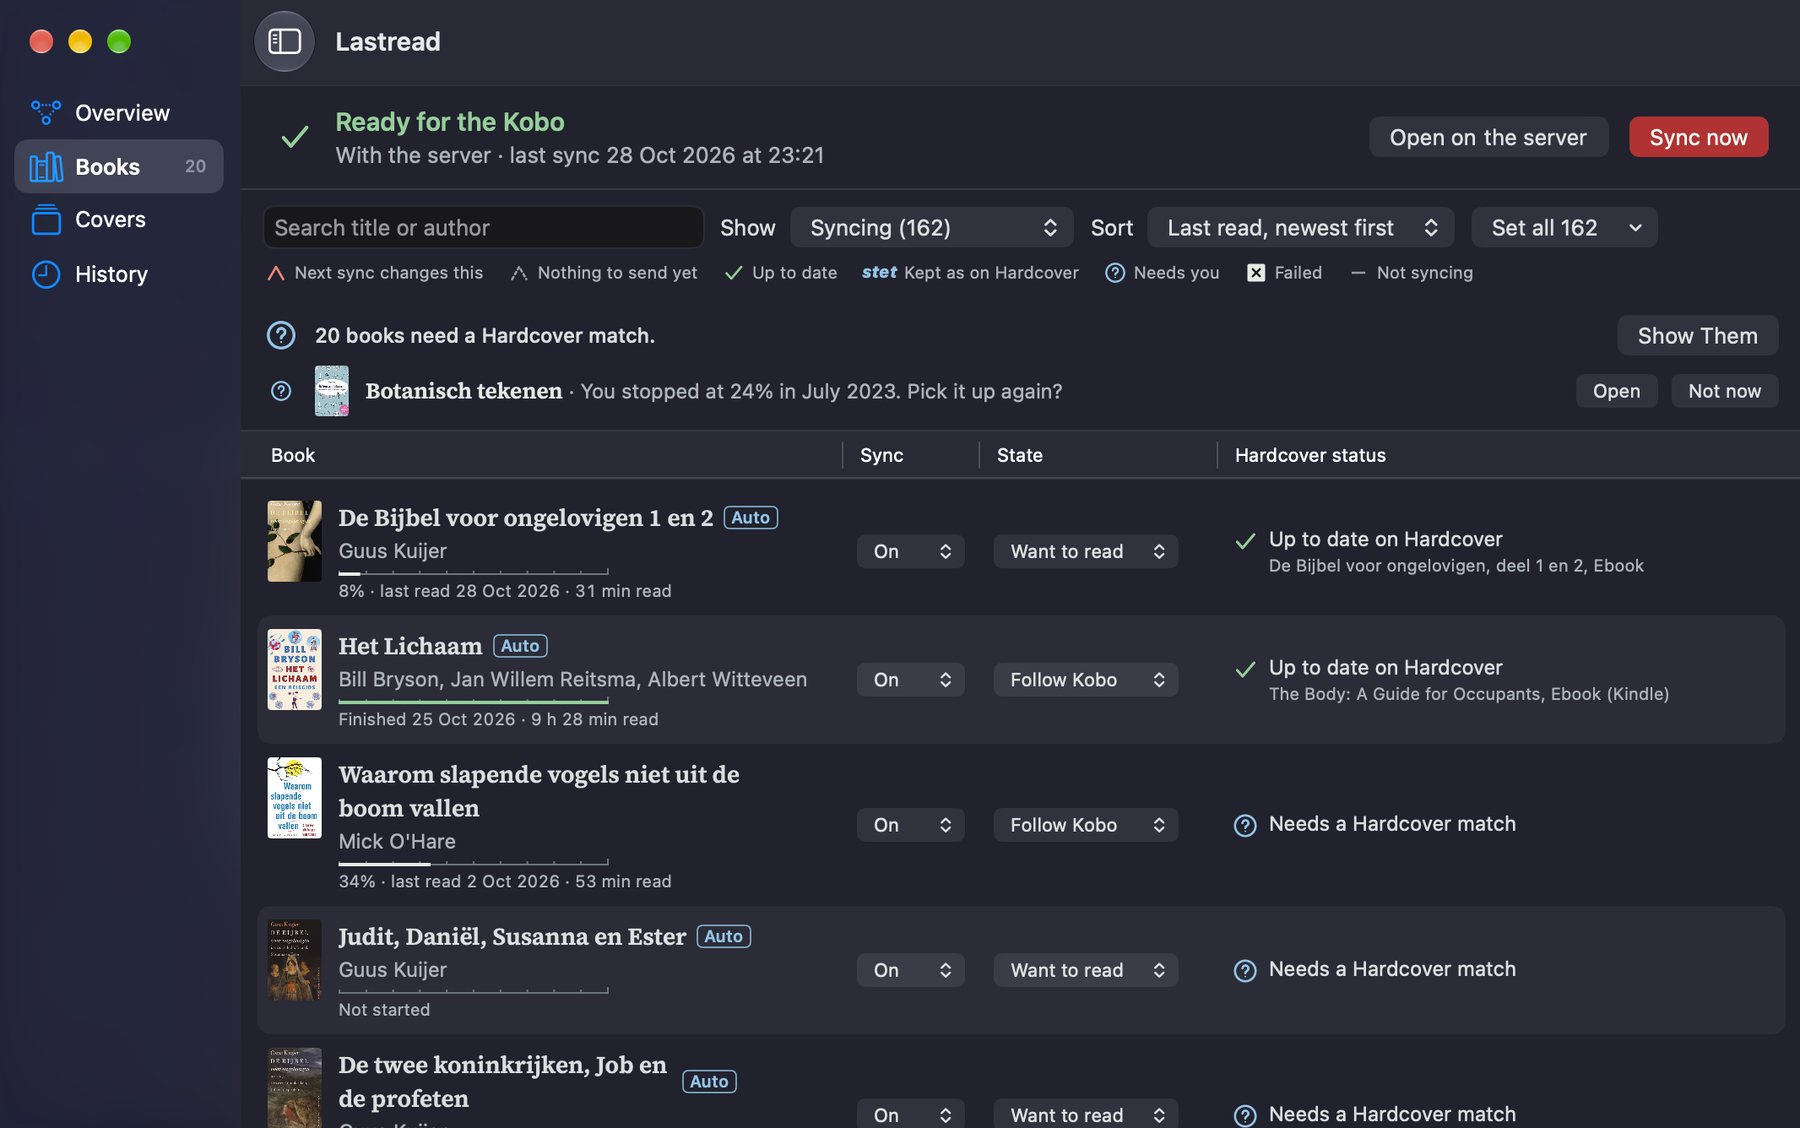
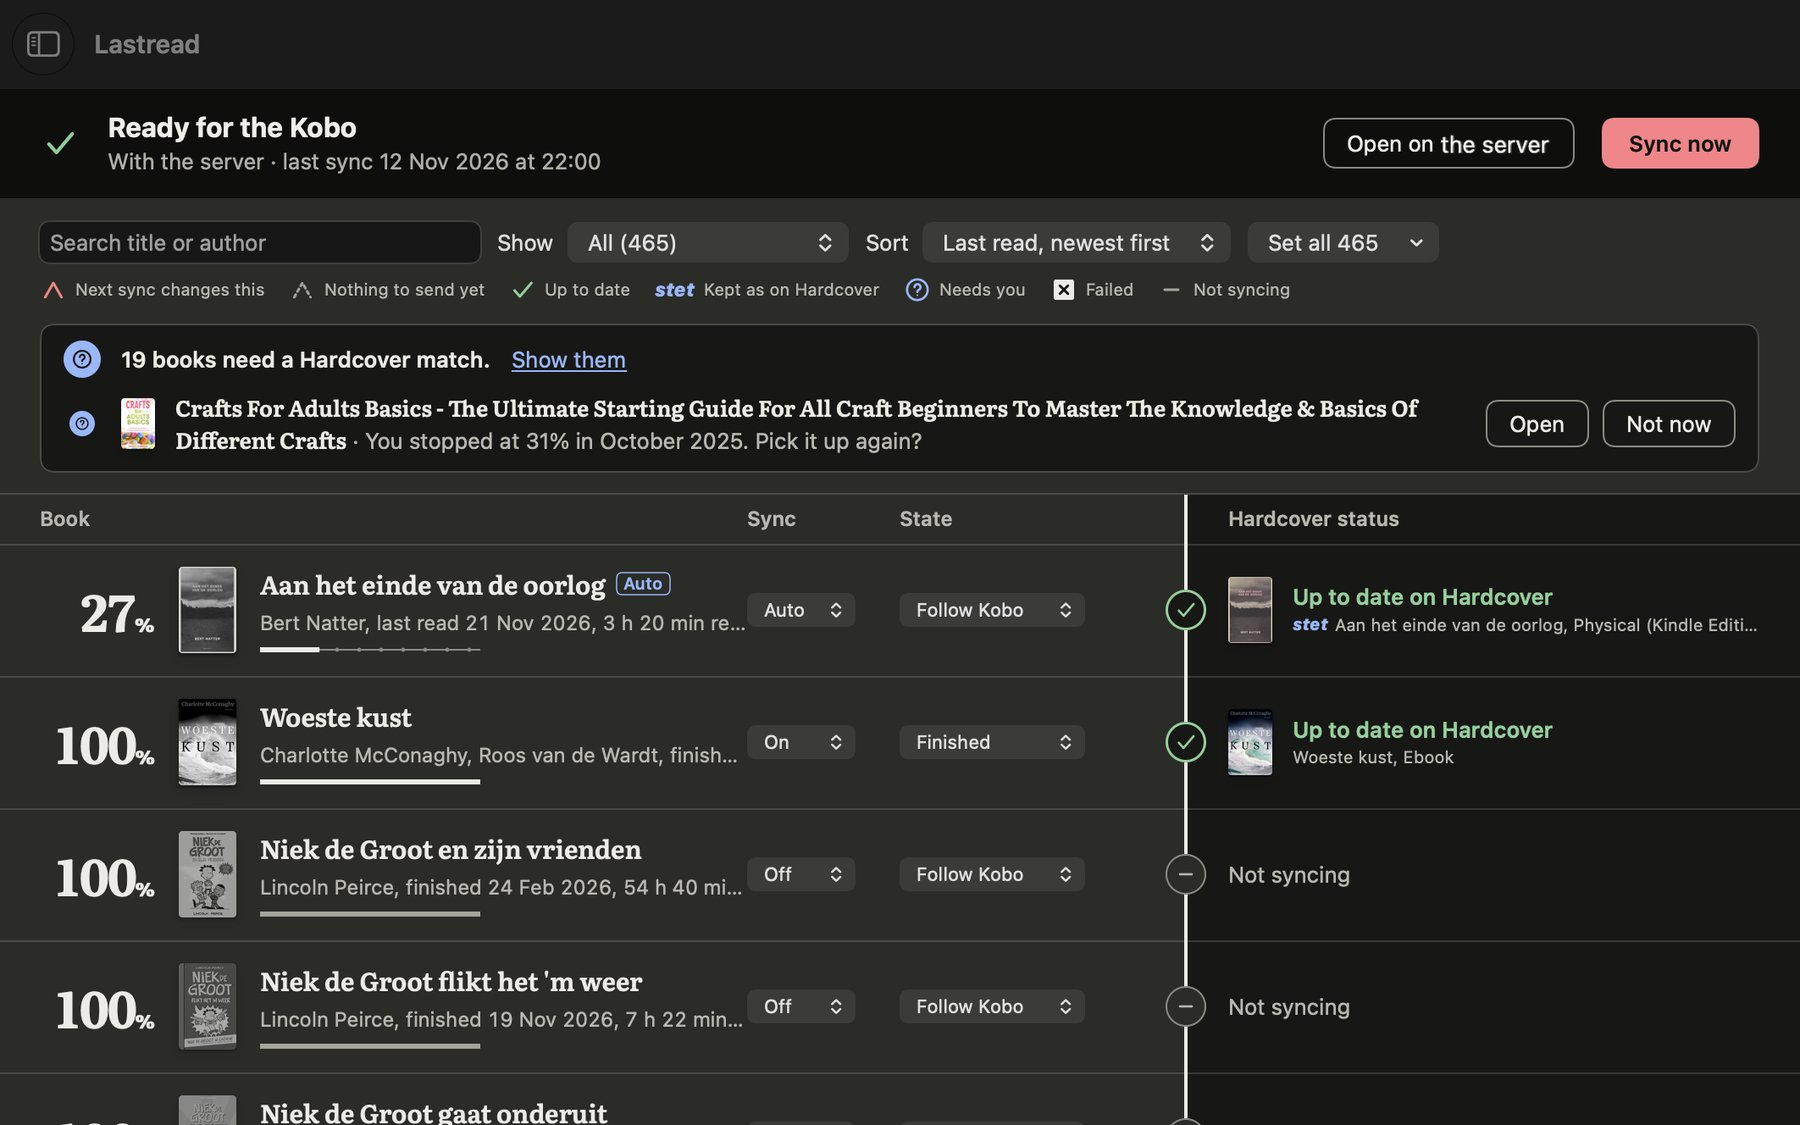
Site: the Mac app's pictures of the two-sides window, the names painted out
Overview, Books and Covers in both themes, from the preview's own pictures
of the 0.33.0 code (KHS_SNAPSHOT, reading a copy of the owner's folder),
cropped beside the sidebar, which the snapshot draws blank. The server's
name, the Hardcover handle and the title's "(preview)" are painted out:
the button says Open on the server, the app's own short label, built from
the glyphs of the line beside it; the Server step has no host and the
Hardcover step reads Live. The alt texts describe the new window, Covers
is 1800 by 1440, and docs/site.md says where the pictures come from.

diff --git a/site/index.html b/site/index.html
@@ -161,16 +161,16 @@ try { var t = localStorage.getItem("theme"); if (t === "light" || t === "dark") 
     </div>
     <div class="cards appshots">
       <figure class="card shot">
-        <picture class="app"><source srcset="img/small/mac-overview-dark.jpg 900w, img/mac-overview-dark.jpg 1800w" sizes="(max-width: 899.98px) 100vw, 50vw" media="(prefers-color-scheme: dark)"><img src="img/mac-overview-light.jpg" srcset="img/small/mac-overview-light.jpg 900w, img/mac-overview-light.jpg 1800w" sizes="(max-width: 899.98px) 100vw, 50vw" alt="The app's Overview: a sidebar with Overview, Books, Covers and History; the line Ready for the Kobo with the server and the last sync; the chain Kobo, This Mac, Server, Hardcover with a tick on each step that is in order; under it the last sync, six books updated" width="1800" height="1128" loading="lazy"></picture>
+        <picture class="app"><source srcset="img/small/mac-overview-dark.jpg 900w, img/mac-overview-dark.jpg 1800w" sizes="(max-width: 899.98px) 100vw, 50vw" media="(prefers-color-scheme: dark)"><img src="img/mac-overview-light.jpg" srcset="img/small/mac-overview-light.jpg 900w, img/mac-overview-light.jpg 1800w" sizes="(max-width: 899.98px) 100vw, 50vw" alt="The app's Overview: a dark band with Ready for the Kobo, the last sync, Open on the server and Sync now; on the grey side the chain Kobo, This Mac and Server, each with its mark, and an arrow into the dark rule between the two sides; on Hardcover's white side the book being read, and Live; under the chain the last sync, four books updated" width="1800" height="1125" loading="lazy"></picture>
         <figcaption>Overview: the chain a sync takes, each step with its checks.</figcaption>
       </figure>
       <figure class="card shot">
-        <picture class="app"><source srcset="img/small/mac-books-dark.jpg 900w, img/mac-books-dark.jpg 1800w" sizes="(max-width: 899.98px) 100vw, 50vw" media="(prefers-color-scheme: dark)"><img src="img/mac-books-light.jpg" srcset="img/small/mac-books-light.jpg 900w, img/mac-books-light.jpg 1800w" sizes="(max-width: 899.98px) 100vw, 50vw" alt="The app's Books pane: the shelf as a list with covers, progress, the Sync and State switches, and the Hardcover status with its marks; a band says twenty books need a match" width="1800" height="1128" loading="lazy"></picture>
+        <picture class="app"><source srcset="img/small/mac-books-dark.jpg 900w, img/mac-books-dark.jpg 1800w" sizes="(max-width: 899.98px) 100vw, 50vw" media="(prefers-color-scheme: dark)"><img src="img/mac-books-light.jpg" srcset="img/small/mac-books-light.jpg 900w, img/mac-books-light.jpg 1800w" sizes="(max-width: 899.98px) 100vw, 50vw" alt="The app's Books pane: under the band, the search, Show and Sort, the marks with their words, and a note that nineteen books need a Hardcover match; then the list, each book with its percentage set large, its cover in grey and its Sync and State switches on the grey side, its mark on the dark rule, and its status on Hardcover's white side" width="1800" height="1125" loading="lazy"></picture>
         <figcaption>Books: the same shelf and the same marks as the page.</figcaption>
       </figure>
       <figure class="card shot">
-        <picture class="app"><source srcset="img/small/mac-covers-dark.jpg 900w, img/mac-covers-dark.jpg 1800w" sizes="100vw" media="(prefers-color-scheme: dark)"><img src="img/mac-covers-light.jpg" srcset="img/small/mac-covers-light.jpg 900w, img/mac-covers-light.jpg 1800w" sizes="100vw" alt="The app's Covers pane: rows of book covers, one opened to a spread with its title, author and progress, and the book that asks to be picked up again" width="1800" height="1128" loading="lazy"></picture>
-        <figcaption>Covers: the library as a press run; a cover opens to its spread.</figcaption>
+        <picture class="app"><source srcset="img/small/mac-covers-dark.jpg 900w, img/mac-covers-dark.jpg 1800w" sizes="100vw" media="(prefers-color-scheme: dark)"><img src="img/mac-covers-light.jpg" srcset="img/small/mac-covers-light.jpg 900w, img/mac-covers-light.jpg 1800w" sizes="100vw" alt="The app's Covers pane: the shelf as rows of covers, Never opened, Read earlier and Read this year; under the rule, on white, the book being read at 27 percent and the book that asks to be picked up again" width="1800" height="1440" loading="lazy"></picture>
+        <figcaption>Covers: the library as a press run, with the book you are reading under it.</figcaption>
       </figure>
     </div>
     <p class="caption">The author's own shelf, in the theme this page is in; the app follows the Mac's.</p>

diff --git a/docs/site.md b/docs/site.md
@@ -56,12 +56,14 @@ page from the same files.
   shelf (`browser_tests/shots.py`), light and dark at 2560 pixels wide (on a
   phone a crop of the switches and the Hardcover column, at size), a phone
   at 390, and a book's Details, each in a quiet card with its caption; the
-  Mac app by the owner's own screenshots of its window (Overview, Books,
-  Covers at full width), taken on the Mac in both themes and shown in the
-  theme the page is in (a `<picture>` on the system's theme, swapped by the
-  theme switch), with the server's name and the Hardcover handle painted
-  out: the button says *Open on the server*, the app's own short label,
-  built from the glyphs of the line beside it. The row's cover is drawn (`browser_tests/covers/`, a
+  Mac app by pictures of its window (Overview, Books, Covers at full width)
+  as the app draws them: a preview build's `KHS_SNAPSHOT` pictures, in both
+  themes, reading a copy of the owner's folder, and shown in the theme the
+  page is in (a `<picture>` on the system's theme, swapped by the theme
+  switch). They are cropped beside the sidebar, which the snapshot cannot
+  draw, and the server's name, the Hardcover handle and the title's
+  *(preview)* are painted out: the button says *Open on the server*, the
+  app's own short label, built from the glyphs of the line beside it. The row's cover is drawn (`browser_tests/covers/`, a
   publisher's series on bookcloth); the captions say the shelf is made up.
 - **The photographs** are four from Unsplash, chosen by the owner, under the
   Unsplash License (`THIRD-PARTY-NOTICES.md` lists them; each file carries

diff --git a/.impeccable/surfaces/site-index-html.md b/.impeccable/surfaces/site-index-html.md
@@ -113,6 +113,8 @@ its provenance.
   HFeG2vERmWo) and the bench (Leon Seibert, hQzBAtJoJQo) go lower down. The
   bed (Paige Cody, ypdO5AlNMgs) was step 2 until then and is gone. The fifth they named (Lala Azizli, 87lrs0EaNZo)
   shows a Kindle, not a Kobo, and is left out.
-- The Mac app's pictures are the owner's own screenshots of 0.20.0, in both
-  themes, as before; the server's name and the Hardcover handle are painted
-  out (the button reads the app's own short label, *Open on the server*).
+- The Mac app's pictures show the two-sides window of 0.33.0, in both
+  themes: a preview build's own pictures of the owner's shelf, cropped
+  beside the sidebar; the server's name, the Hardcover handle and
+  *(preview)* are painted out (the button reads the app's own short label,
+  *Open on the server*).
